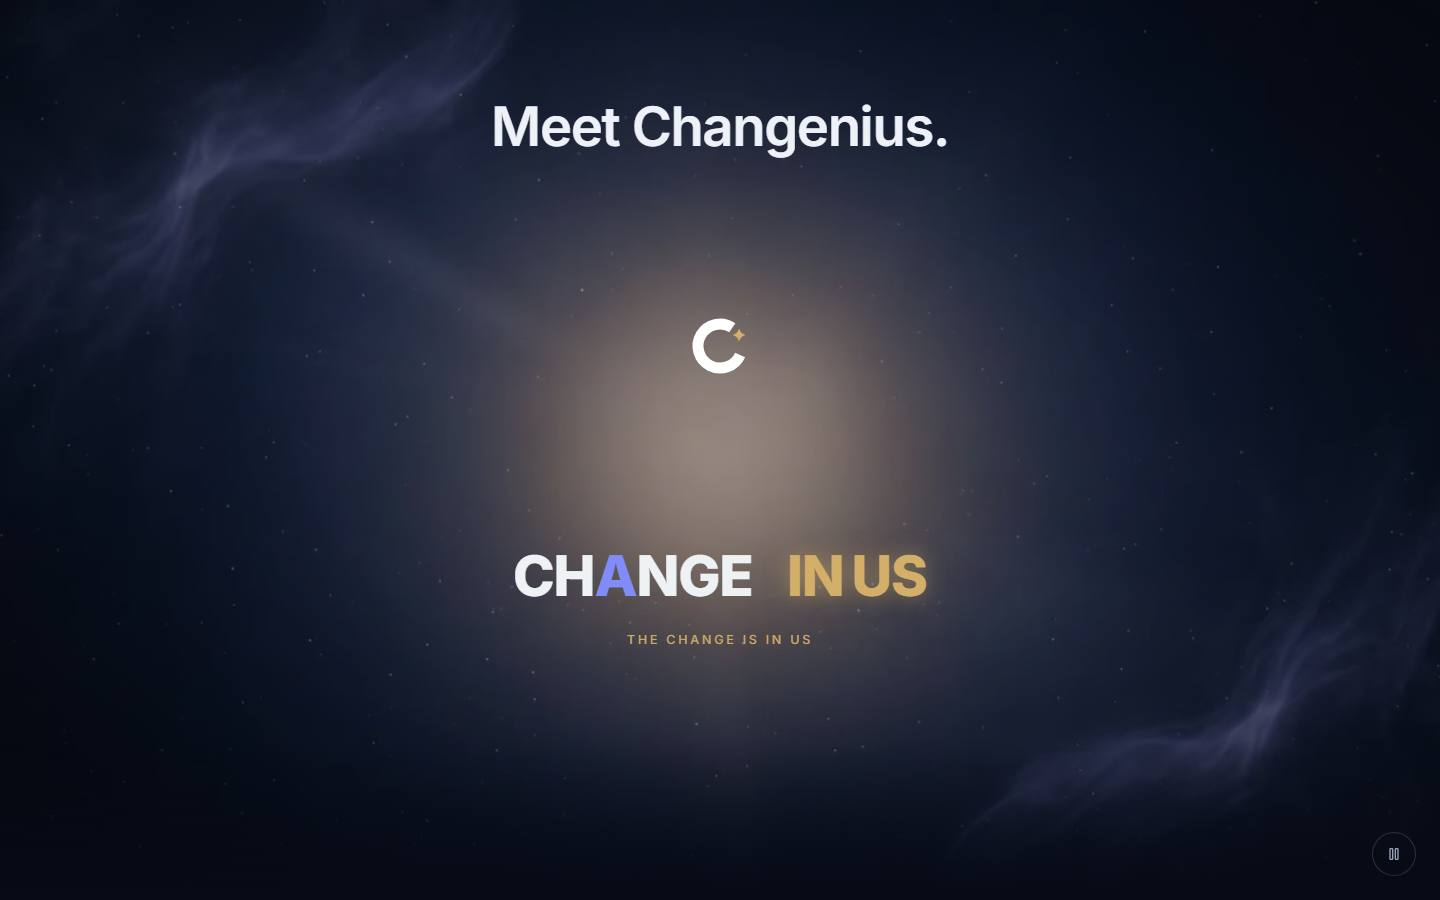
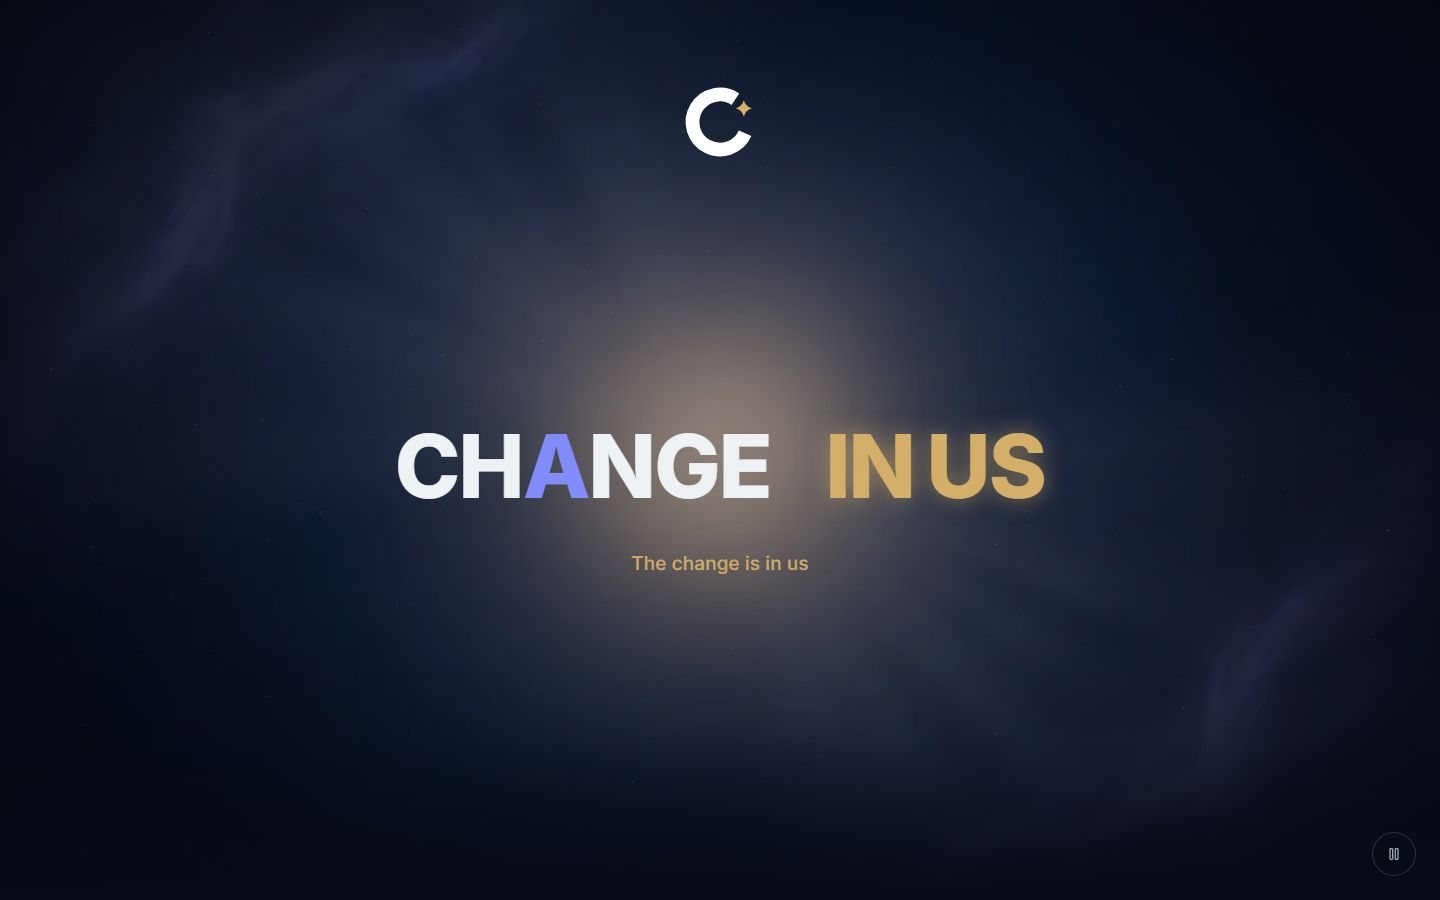
docs: SIT for the hero enlargement, hero screenshots retaken at four sizes

diff --git a/docs/sit/2026-11-11-landing-sit.md b/docs/sit/2026-11-11-landing-sit.md
@@ -185,10 +185,48 @@ Tested at the commit that carries this section. Production builds with the assis
 
 | # | Finding | Severity | Status |
 |---|---|---|---|
-| H1 | On a 390 px phone, in the constellation act (about 24 s of each loop), the small script lines under CHANGE and AGENTIC AI run a few pixels past the screen edge, and the CHANGE and AI script lines touch. The show was designed for the login's 448 px column, which the app only shows on large screens. | Cosmetic | Open, for the owner. Not fixed here because "as it is" rules out editing the show, and shrinking it does not work (H2) |
+| H1 | On a 390 px phone, in the constellation act (about 24 s of each loop), the small script lines under CHANGE and AGENTIC AI run a few pixels past the screen edge, and the CHANGE and AI script lines touch. The show was designed for the login's 448 px column, which the app only shows on large screens. | Cosmetic | Open at the time; **fixed** in the hero enlargement below |
 | H2 | Shrinking the show with `transform: scale()` or CSS `zoom` breaks it: `measure()` reads on-screen distances, which the scale then applies a second time, so travelling letters start about 16% off their source letter (measured: 6 px / 15 px out at 0.8). | Design constraint | No scale is used. The hero is laid out so the show fits unscaled at all three sizes |
 | H3 | The copied show re-measures on every window resize, and its measuring step restarts the loop from the beginning. On phones, the address bar showing or hiding fires a resize, so scrolling near the top could restart the show. Same behaviour as on the login page. | Minor | **Fixed** in the website copy (the one deliberate change from the app): a resize re-measures only when the width changes. e2e: a height-only resize leaves the loop running, a width change restarts it |
 | H4 | The ring icon kept the login's `role="img"` and name "Changenius", next to the show's own label, so a screen reader heard the name twice in the hero. | Minor | **Fixed**: the icon is decorative (`aria-hidden`), so the name is heard once, from the show |
+
+## Hero enlargement (owner, 11 Nov 2026)
+
+**What changed.**
+
+1. **Rotating statements removed.** `StatementRotator`, `HERO_STATEMENTS`, their test and e2e assertions, and the `statement-in` / `fade-only` CSS are deleted. The hero keeps the sr-only `h1`, the backdrop video and poster, the pause button (it still pauses the show and the video) and reduced motion.
+2. **The show is about 1.6× larger and centred** in a 896 px column (was 448 px): CHANGENIUS up to 88 px (was 56), the formed words and the name above them up to 64 px (was 38), the constellation's centre name 48 px (was 30), the orbit words 28 px (was 19), the closure 88 px. Every size is a fluid `clamp()` that shrinks with the screen width. Stage heights and positions grow with it: the stage is 640 px tall, 560 px when the window is 760 px tall or less, 480 px at 600 px or less. No `transform` or `zoom` is used (H2). The two fixed pixel nudges in the keyframes (the guest T, 12 px; one orbit piece, 8 px) became `em`, so they grow with the letters.
+3. **Captions are larger and in sentence case**: 19 px on desktop down to 14 px on a phone (orbit captions and the sub-line 17 px down to 12 px), no uppercase, almost no letter-spacing, centred, allowed to wrap (balanced) within a maximum width.
+4. **New owner wording** for the five captions, the three hub-cascade lines and the sub-line ("Governed change · Powered by AI · One chain from strategy to benefit"). The closure stays "The change is in us". The show's accessible name is one new sentence.
+5. **The copy now deliberately differs from the app's login show**; both files carry the new provenance note. The app's own copy is unchanged. The 2× tempo override stays.
+6. **Re-measure rule widened slightly**: a resize re-measures when the width **or the show's own height** changes. The show's height only changes at the 760 / 600 px window-height steps, which a phone's address bar does not cross (media queries use the fixed initial viewport), so the H3 fix still holds; without it, a desktop window dragged across a step would keep stale travel vectors.
+
+**Checks.**
+
+| Check | Result |
+|---|---|
+| `npm run typecheck` | Pass, 0 errors |
+| `npm run lint` | 0 errors, the same 2 warnings |
+| `npm test` (Vitest) | Pass: 9 files, **83 tests** (the statement test is replaced by a name test) |
+| `npm run build` (assistant off) | Pass. `/` 23.3 kB, 126 kB First Load JS |
+| `npx playwright test` (desktop, phone, assistant-off) | **48 passed** on the second full run. First full run: 46 passed, 2 failed in `assistant.spec.ts` ("answers a question…", desktop and phone, the reply not arriving within 20 s on a cold dev server); that spec alone then passed 12/12, and the full run after it passed 48/48. New hero tests: no statement, the show alone with its new name; the five captions, sub-line and closure line present with the owner's text, and sentence case, wrapping, ≥ 17 px desktop / ≥ 14 px phone; pause stops the show **and the backdrop video**, play resumes both; nothing off screen and `scrollWidth ≤ innerWidth` at 390 and 360 px in seven frames covering every act; reduced motion |
+| Travelling letters (production build, 1440×900, 1280×720, 390×844, 360×740) | At the instant the born-from-top and constellation duplicates appear, each sits exactly on its source letter: worst distance **0.0 px** at all four sizes, so `measure()` still lines them up |
+| Layout, production build, 7 frames × 4 sizes | Nothing off screen, no overlap. Show top/bottom: 178–818 of 900 (1440×900), 116–676 of 720 (1280×720), 138–778 of 844 (390×844), 126–686 of 740 (360×740). The pause button sits clear of the show at all four |
+| Screenshots | 32 taken from a production build and looked at (below) |
+
+**Screenshots** (`2026-11-11-shots/`): `desktop-` is 1440×900, `laptop-` 1280×720, `phone-` 390×844 (was a Pixel 7 before), `small-phone-` 360×740. For each: `01-hero-mid-word` (AGENTIC AI with its caption, 13.8 s), `02-hero-close` (CHANGE IN US, 144.6 s), `03-hero-reduced-motion`, `12-hero-assistant-off` (the CHANGE beat, 4 s), `14-hero-hub-cascade` (CHANGE morphing in place with its line, 53.6 s), `15-hero-constellation` (138 s), and new: `16-hero-hub-subline` (the sub-line, 56 s) and `17-hero-chain` (the longest caption, 18.8 s). Frames were held by setting a negative `animation-delay` in a throwaway script; the backdrop video was hidden for the shots, so the poster shows.
+
+**Findings.**
+
+| # | Finding | Severity | Status |
+|---|---|---|---|
+| H1 | Constellation captions running off a 390 px screen (from the hero swap) | Cosmetic | **Fixed**: orbit boxes are now 44% of the stage (at most 330 px) instead of a fixed 230 px, so at 360 and 390 px every caption stays on screen (tested in e2e). On phones the CHAIN caption wraps to four short lines in the constellation, the others to three |
+| H5 | Reduced motion was meant to show the sub-line under the still name, but `.stories span { opacity: 0 }` outranked the reduced-motion `.sSub { opacity: 1 }`, so only the name showed. Present in the app's copy too | Minor | **Fixed** in the website copy (`.stories .sSub`); the sub-line now shows under the still CHANGENIUS (`03-hero-reduced-motion`) |
+| H6 | The first sub-line layout wrapped onto two lines on desktop | Cosmetic | **Fixed**: wider maximum width; one line on desktop and laptop, two on phones |
+| H7 | At 360 px the closure CHANGE IN US first spanned 20–340 px, close to the 16 px gutter | Cosmetic | **Fixed**: the name's fluid size was reduced from 12vw to 11.5vw |
+| H8 | `next dev` / `next build` rewrote `tsconfig.json` (reformatting and adding a `.next-sit-wa` include) | Tooling | Reverted, not committed |
+
+**Not verified.** Contrast of the new caption sizes was not re-measured from screen pixels (the colours are the ones measured before; larger text only helps). No real phone, Safari or Firefox; the address-bar behaviour of the new height steps rests on the browsers' documented fixed initial viewport, not on a device. No screen-reader pass of the new accessible name.
 
 ## Not tested
 
